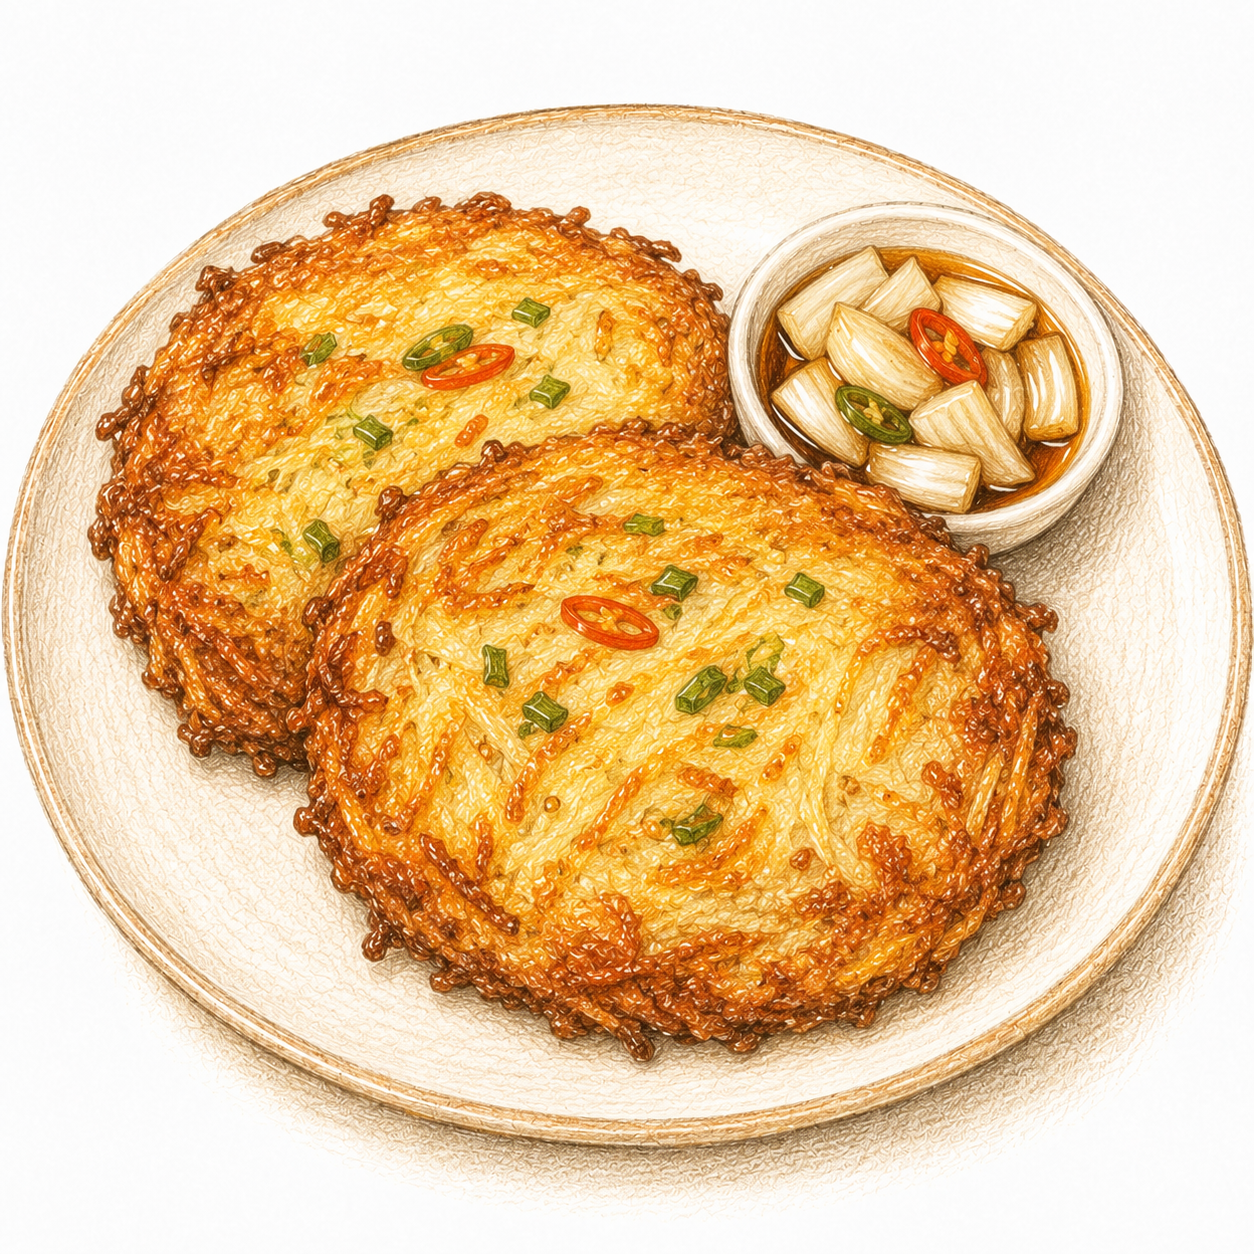
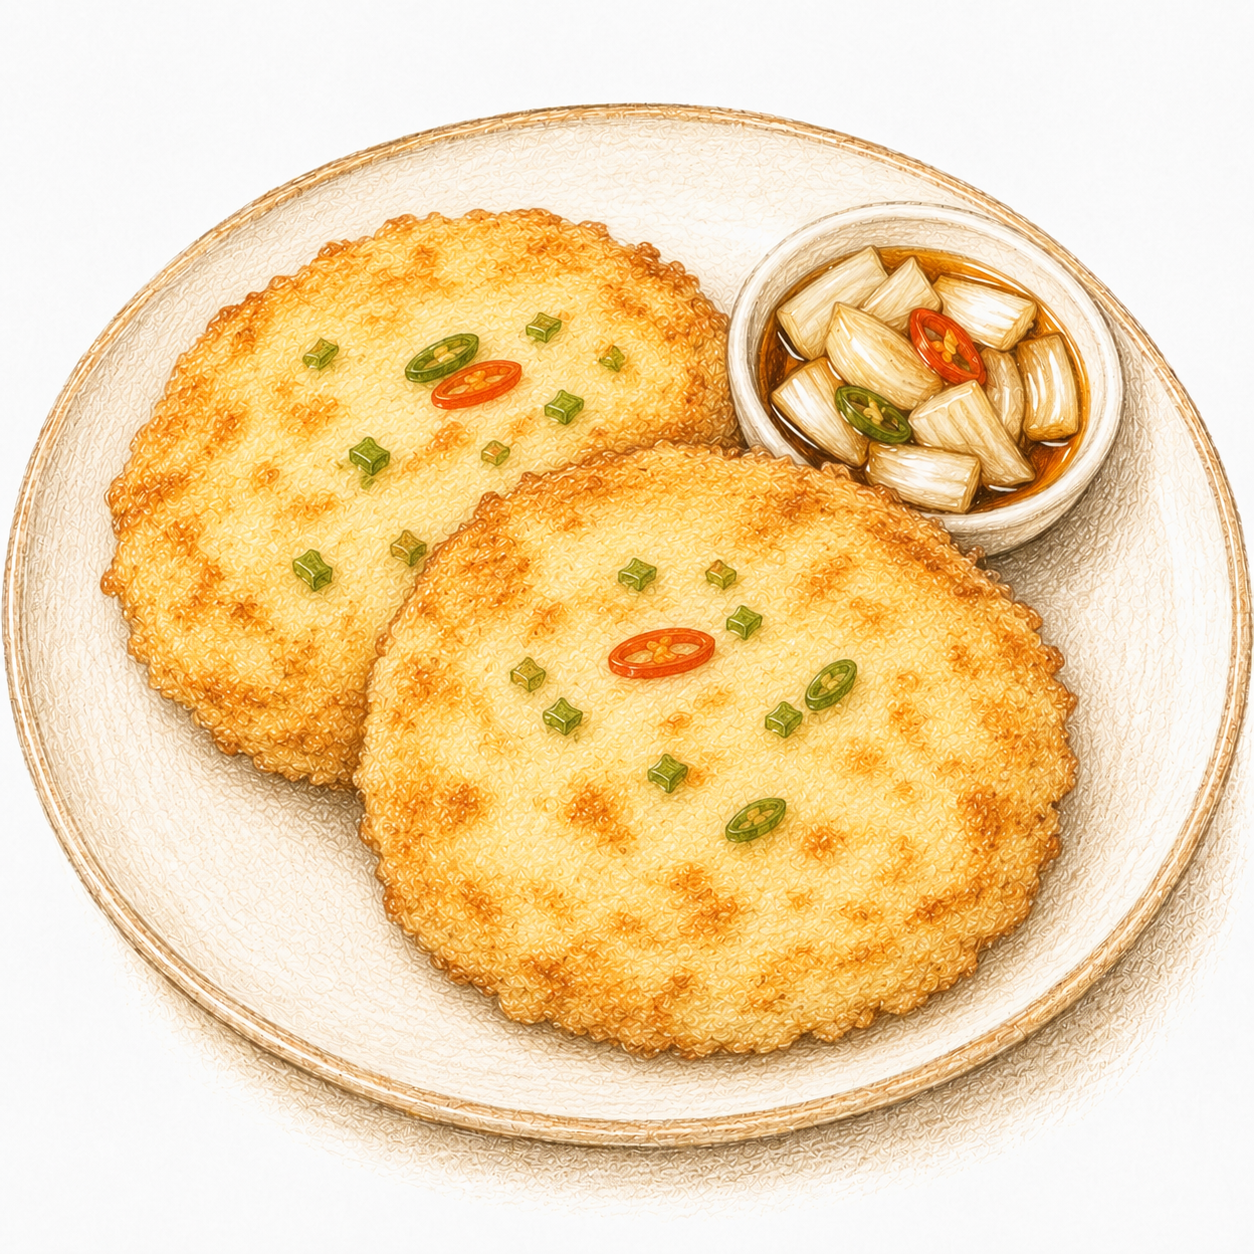
feat: add images for recipes 4, 5, 8, 9, 11; update r12
香蕉瑪芬/辣醬鍋/泡菜鍋/雞肉炒麵/湯汁烤肉插圖上線，馬鈴薯餅換新圖
r6(櫛瓜煎餅)/r7(番茄肉醬) 待圖

diff --git a/index.html b/index.html
@@ -1559,7 +1559,7 @@
 
 <script>
   const STORAGE_KEY = 'jajuibang_recipes';
-  const DATA_VERSION = '103';
+  const DATA_VERSION = '104';
   const VERSION_KEY = 'jajuibang_version';
 
   const defaultRecipes = [
@@ -1728,6 +1728,7 @@
       stars: 2,
       starsLabel: '家常實力',
       author: 'Stephany',
+      image: 'images/r4.png',
       tags: ['甜點', '烘焙', '下午茶', '剩菜救援'],
       basePortions: 4,
       time: '約35分鐘',
@@ -1781,6 +1782,7 @@
       stars: 2,
       starsLabel: '家常實力',
       author: 'Stephany',
+      image: 'images/r5.png',
       tags: ['豬肉', '鍋物', '一鍋到底', '韓劇感', '想吃熱的'],
       basePortions: 2,
       time: '約40分鐘',
@@ -1948,6 +1950,7 @@
       author: 'Stephany',
       time: '約45分鐘',
       basePortions: 2,
+      image: 'images/r8.png',
       tags: ['豬肉', '鍋物', '一鍋到底', '韓劇感', '想吃熱的'],
       shoppingList: [
         ['熟成泡菜', 400, 'g（越酸越香）'],
@@ -2002,6 +2005,7 @@
       stars: 2,
       starsLabel: '家常實力',
       author: 'Stephany',
+      image: 'images/r9.png',
       tags: ['雞肉', '麵', '下班後', '30分鐘上桌'],
       basePortions: 2,
       time: '約 30 分鐘',
@@ -2117,6 +2121,7 @@
       starsLabel: '新手村',
       author: 'Stephany',
       note: '這是炒鍋版的銅盤烤肉：不用銅盤，也不用假裝自己有銅盤。甜鹹湯汁、牛肉、冬粉和白飯該有的快樂都有，重點是最後那口湯汁一定要拿來拌飯。',
+      image: 'images/r11.png',
       tags: ['牛肉', '鍋物', '下飯菜', '想吃熱的'],
       basePortions: 2,
       time: '約 1 小時 15 分鐘',